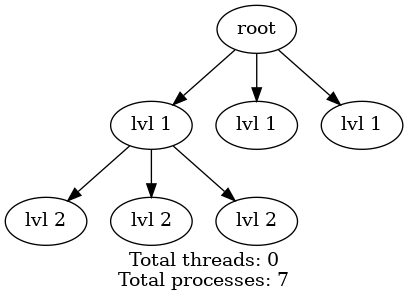
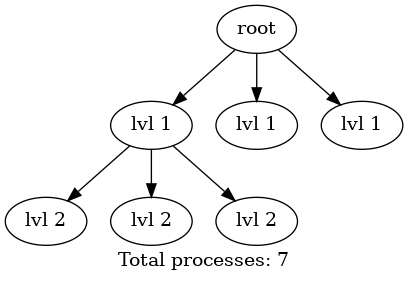
Don't display thread count if it's zero

diff --git a/frk.c b/frk.c
@@ -28,7 +28,11 @@ static void close_graph(void) {
         printf("    %d [xlabel=\"T: %d\"];\n", getpid(), thread_nr);
     }
     if(depth == 0) {
-        printf("    label=\"Total threads: %d\\nTotal processes: %d\";\n", shared_data->total_threads, shared_data->total_processes);
+        if(shared_data->total_threads > 0) {
+            printf("    label=\"Total threads: %d\\nTotal processes: %d\";\n", shared_data->total_threads, shared_data->total_processes);
+        } else {
+            printf("    label=\"Total processes: %d\";\n", shared_data->total_processes);
+        }
         printf("}\n");
     }
     if(munmap(shared_data, sizeof(struct shared_data)) == -1) {
